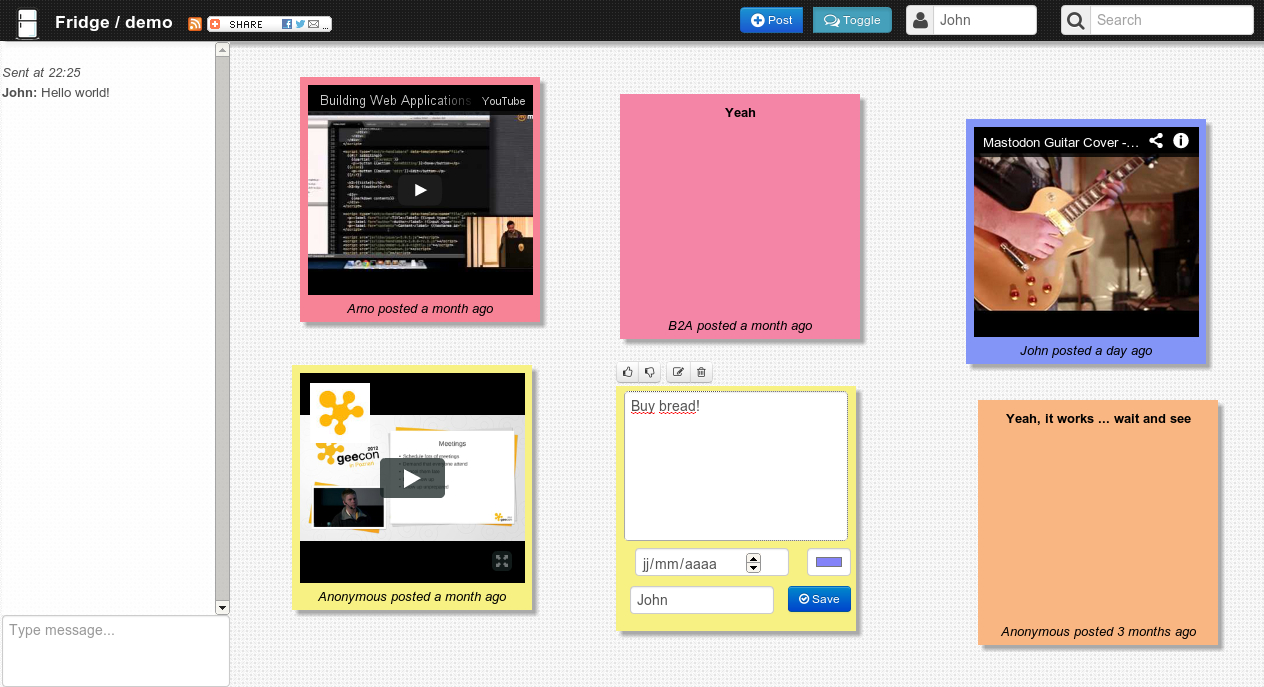
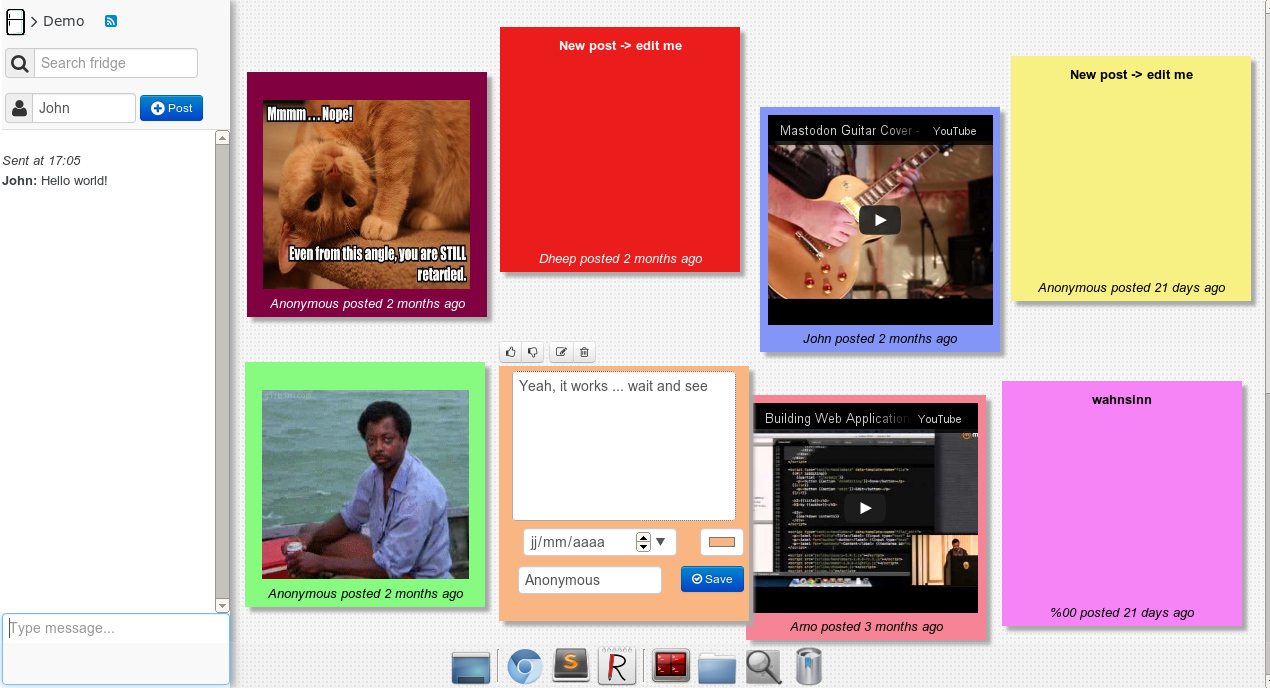
update image & cleaning

diff --git a/src/main/resources/web/css/layout.css b/src/main/resources/web/css/layout.css
@@ -54,14 +54,14 @@ header a{text-decoration:none;}
 	float: right;
 	text-align: center;
 	height: 1200px;
-	width: 80%;
+	width: 82%;
 	background-image: url(../../images/p5.png);
 	min-height: 100%;}
 
 #panel {
 	position : fixed;
 	z-index: 900;
-	width: 20%;
+	width: 18%;
 	height: 100%;
   	padding-left: 2px;
   	box-shadow: 7px 0px 9px -2px #aaa;
